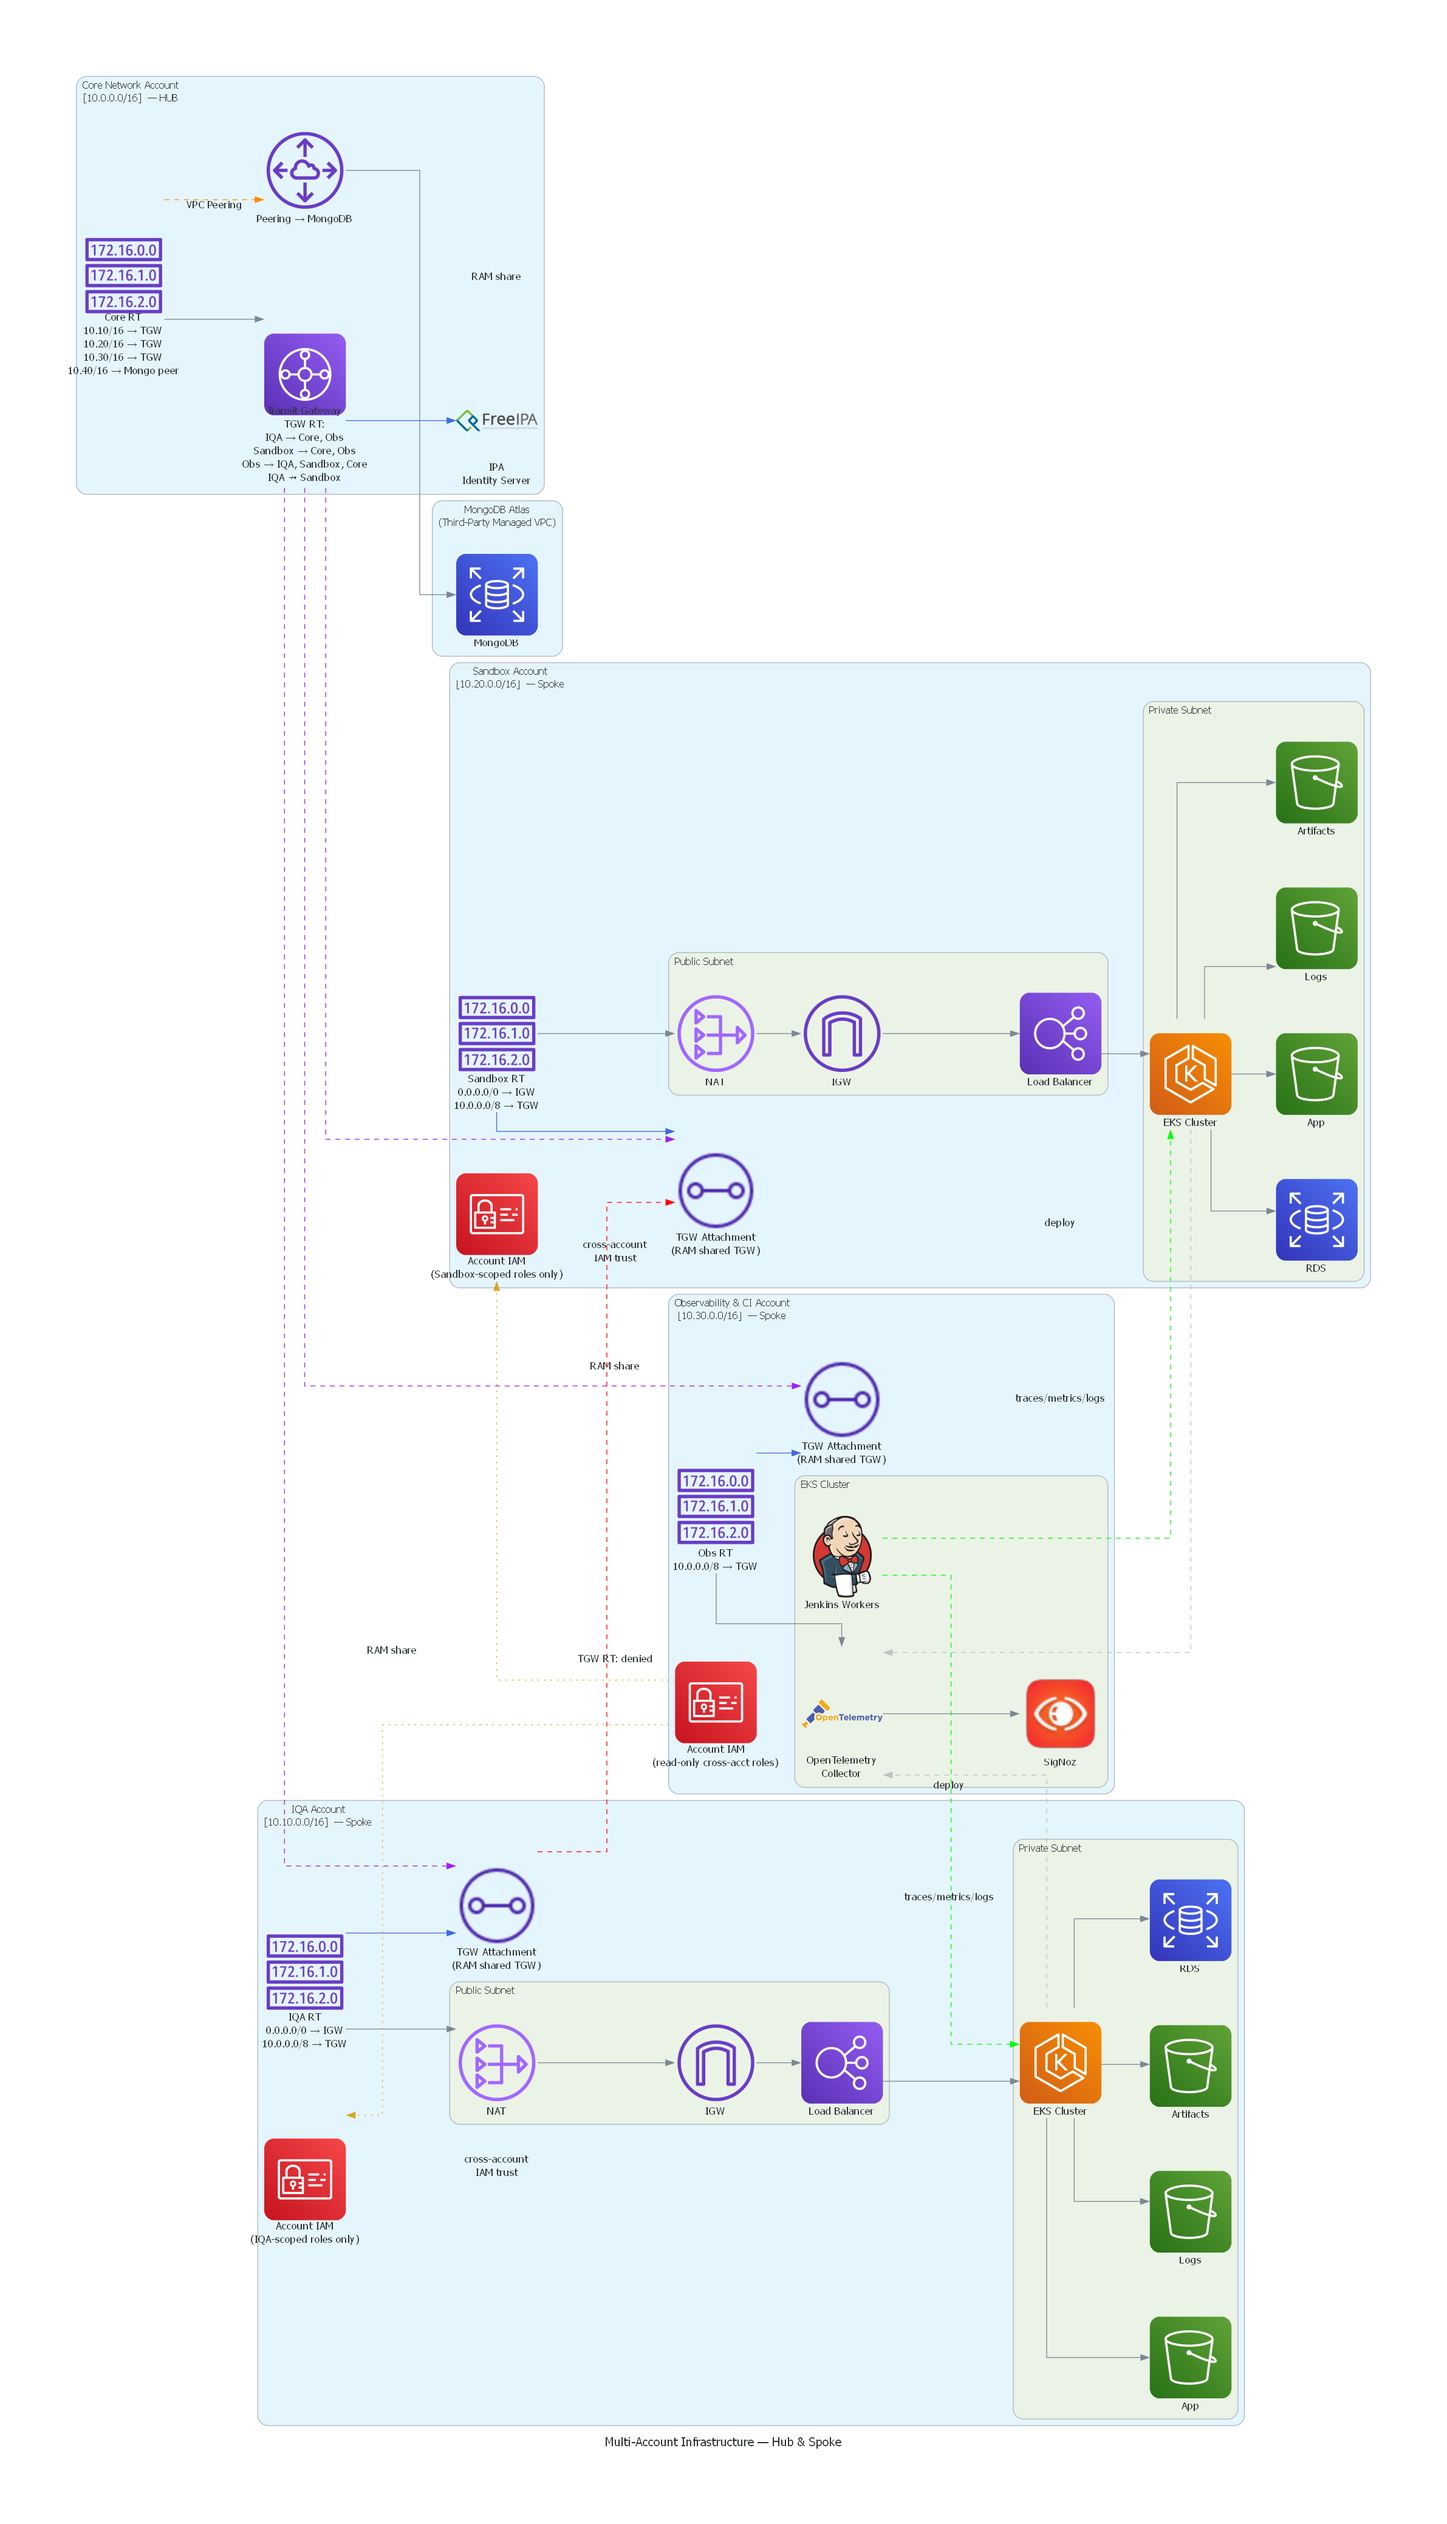
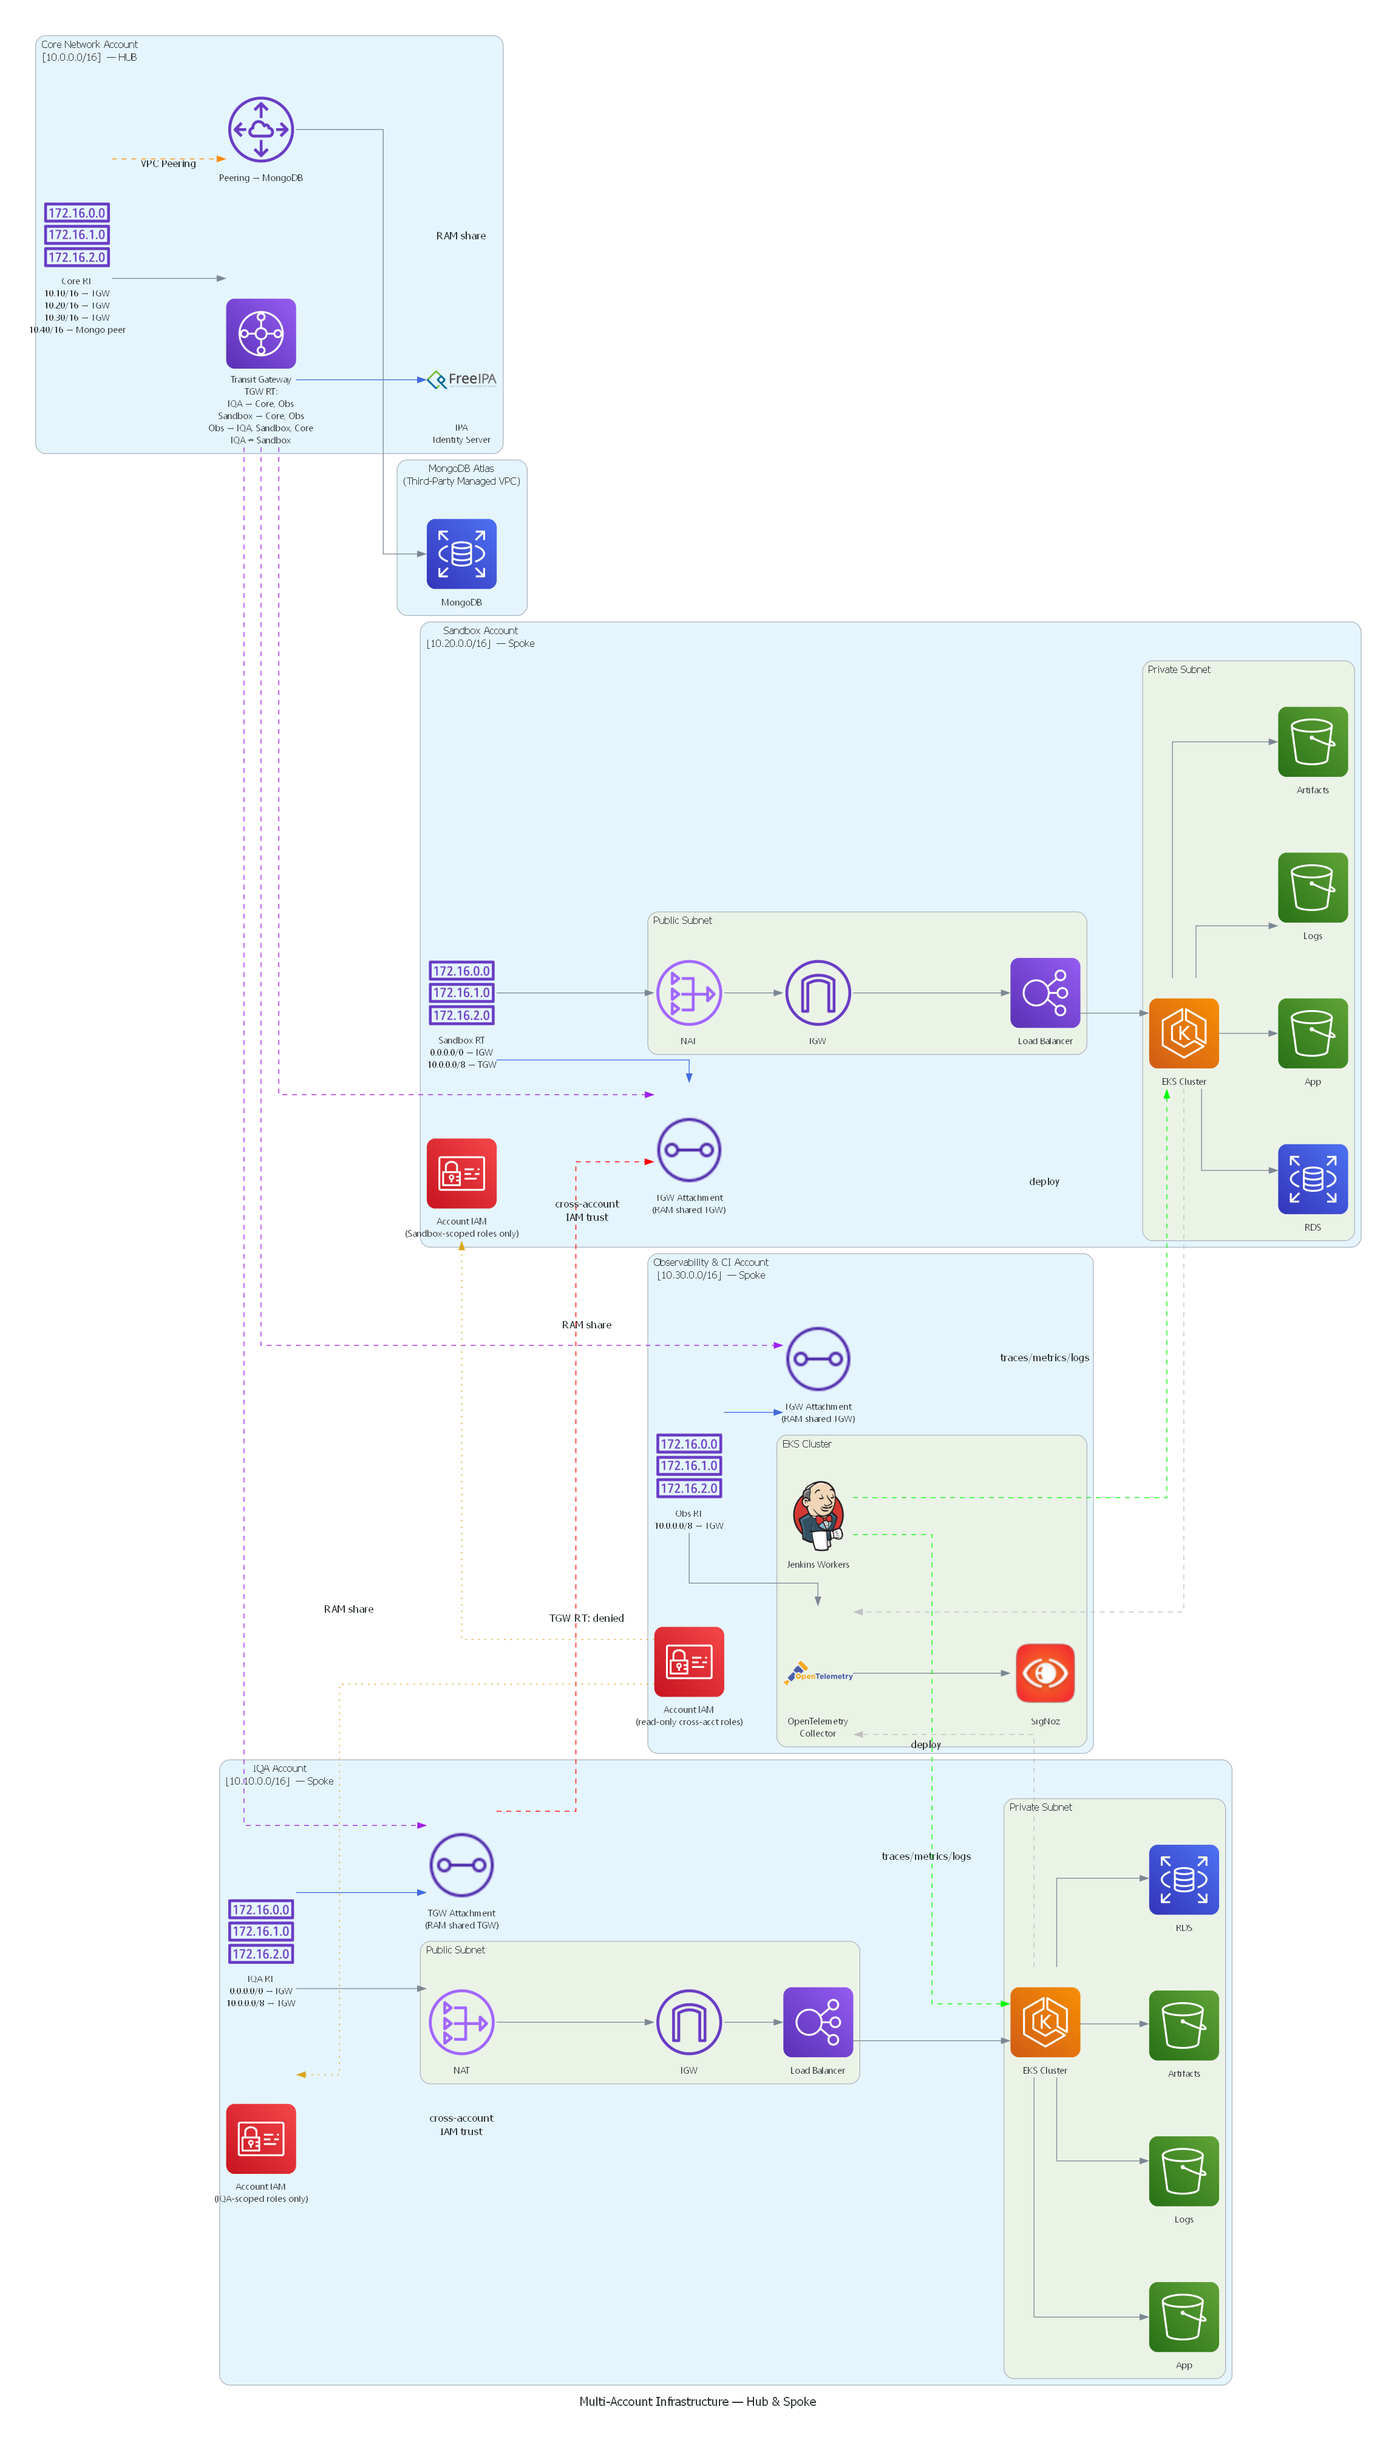
Remove IPA node from exec_org, fix null bytes, tighten node sizing across all diagrams
- Remove FreeIPA custom icon from exec_org Networking OU
- Strip null bytes from exec_org.py caused by UTF-16 encoding in another session
- Add fixedsize/width/height to all node_attrs to reduce whitespace above icons
- Switch fonts to Segoe UI on exec scripts
- Move title to top via labelloc=t on exec_org

diff --git a/exec_org.py b/exec_org.py
@@ -1,9 +1,6 @@
 from diagrams import Diagram, Cluster, Edge
-from diagrams.aws.management import OrganizationsAccount, ControlTower
+from diagrams.aws.management import OrganizationsAccount, OrganizationsOrganizationalUnit, ControlTower
 from diagrams.aws.network import TransitGateway
-from diagrams.aws.compute import EKS
-from diagrams.aws.devtools import Codebuild
-from diagrams.onprem.monitoring import Grafana
 
 # Edge styles
 governs  = {"style": "solid",  "color": "#2C5F8A", "penwidth": "2"}
@@ -12,19 +9,22 @@ scp_edge = {"style": "dashed", "color": "#C0392B", "penwidth": "1.5", "label": "
 
 def create_exec_org_diagram():
     graph_attrs = {
-        "fontsize": "22",
-        "fontname": "Helvetica",
-        "pad": "1.5",
+        "fontsize": "20",
+        "fontname": "Segoe UI",
+        "labelloc": "t",
+        "pad": "0.4",
         "splines": "ortho",
-        "ranksep": "1.6",
-        "nodesep": "1.2",
+        "ranksep": "0.8",
+        "nodesep": "0.5",
         "bgcolor": "white",
     }
     node_attrs = {
-        "fontsize": "18",
-        "fontname": "Helvetica",
+        "fontsize": "11",
+        "fontname": "Segoe UI",
+        "fixedsize": "true",
+        "width": "1.2",
+        "height": "1.2",
     }
-
     with Diagram(
         "AWS Account Governance",
         show=False,
@@ -34,23 +34,23 @@ def create_exec_org_diagram():
         node_attr=node_attrs,
     ):
         # ── Root governance ───────────────────────────────────────────────
-        mgmt = OrganizationsAccount("Management Account\nBilling · Root · Audit")
+        mgmt = OrganizationsOrganizationalUnit("Management Account\nBilling · Root · Audit")
         ct   = ControlTower("AWS Control Tower\nPolicy Enforcement")
         mgmt >> Edge(**governs) >> ct
 
         # ── Networking OU ─────────────────────────────────────────────────
-        with Cluster("Networking OU\nCentralised connectivity & routing"):
-            core = TransitGateway(
-                "Core Network\nTransit Gateway Hub\nShared with all accounts"
-            )
+        ca = {"margin": "12", "fontsize": "13", "fontname": "Segoe UI"}
+
+        with Cluster("Networking OU", graph_attr=ca):
+            core = TransitGateway("Transit Gateway\nCentral routing hub")
 
         # ── Application OU ────────────────────────────────────────────────
-        with Cluster("Application OU\nIsolated workload environments"):
+        with Cluster("Application OU\nIsolated workload environments", graph_attr=ca):
             iqa  = OrganizationsAccount("IQA Environment\nIntegration & QA workloads")
             sand = OrganizationsAccount("Sandbox Environment\nDevelopment & testing")
 
         # ── Platform OU ───────────────────────────────────────────────────
-        with Cluster("Platform OU\nShared engineering services"):
+        with Cluster("Platform OU\nShared engineering services", graph_attr=ca):
             obs  = OrganizationsAccount("Observability & CI\nMonitoring · Alerting · Deployments")
 
         # ── Control Tower governs all accounts ────────────────────────────
@@ -59,17 +59,6 @@ def create_exec_org_diagram():
         ct >> Edge(**scp_edge) >> sand
         ct >> Edge(**scp_edge) >> obs
 
-        # ── Core network shared to application accounts ───────────────────
-        core >> Edge(
-            style="dashed", color="#7D3C98", penwidth="1.5",
-            label="Shared network (RAM)"
-        ) >> iqa
-        core >> Edge(
-            style="dashed", color="#7D3C98", penwidth="1.5",
-        ) >> sand
-        core >> Edge(
-            style="dashed", color="#7D3C98", penwidth="1.5",
-        ) >> obs
 
 
 if __name__ == "__main__":

diff --git a/aws_org.py b/aws_org.py
@@ -16,11 +16,13 @@ trust    = {"style": "dotted", "color": "goldenrod",  "label": "cross-account\nI
 def create_aws_org_diagram():
     graph_attrs = {
         "fontsize": "16",
-        "pad": "1.2",
+        "pad": "0.5",
         "splines": "ortho",
-        "ranksep": "1.5",
-        "nodesep": "1.0",
+        "ranksep": "1.0",
+        "nodesep": "0.6",
     }
+
+    node_attrs = {"fontsize": "11", "fontname": "Segoe UI", "fixedsize": "true", "width": "1.2", "height": "1.2"}
 
     with Diagram(
         "AWS Organizations — Account & OU Structure",
@@ -28,6 +30,7 @@ def create_aws_org_diagram():
         filename="diagrams/aws_org",
         direction="LR",
         graph_attr=graph_attrs,
+        node_attr=node_attrs,
     ):
         # ── Root ─────────────────────────────────────────────────────────
         mgmt = OrganizationsAccount("Management Account\n(Billing & Org root)")

diff --git a/multi_account.py b/multi_account.py
@@ -26,7 +26,8 @@ trust_edge  = {"style": "dotted", "color": "goldenrod",  "label": "cross-account
 
 
 def create_multi_account_diagram():
-    graph_attrs = {"fontsize": "15", "pad": "1.2", "splines": "ortho"}
+    graph_attrs = {"fontsize": "15", "pad": "0.5", "splines": "ortho", "ranksep": "1.0", "nodesep": "0.6"}
+    node_attrs  = {"fontsize": "11", "fontname": "Segoe UI", "fixedsize": "true", "width": "1.2", "height": "1.2"}
 
     with Diagram(
         "Multi-Account Infrastructure — Hub & Spoke",
@@ -34,6 +35,7 @@ def create_multi_account_diagram():
         filename="diagrams/multi_account_overview",
         direction="LR",
         graph_attr=graph_attrs,
+        node_attr=node_attrs,
     ):
         # ── Core Network Account (Hub) ────────────────────────────────────
         with Cluster("Core Network Account\n[10.0.0.0/16]  — HUB"):

diff --git a/main.py b/main.py
@@ -24,7 +24,8 @@ peer_edge   = {"style": "dashed", "color": "darkorange", "label": "VPC Peering"}
 
 
 def create_infra_diagram():
-    graph_attrs = {"fontsize": "16", "pad": "1.0", "splines": "ortho"}
+    graph_attrs = {"fontsize": "16", "pad": "0.5", "splines": "ortho", "ranksep": "1.0", "nodesep": "0.6"}
+    node_attrs  = {"fontsize": "11", "fontname": "Segoe UI", "fixedsize": "true", "width": "1.2", "height": "1.2"}
 
     with Diagram(
         "Infrastructure Overview — Hub & Spoke (Transit Gateway)",
@@ -32,6 +33,7 @@ def create_infra_diagram():
         filename="diagrams/infra_overview",
         direction="LR",
         graph_attr=graph_attrs,
+        node_attr=node_attrs,
     ):
         # ── External: MongoDB (third-party managed VPC) ──────────────────
         with Cluster("MongoDB Atlas\n(Third-Party Managed VPC)"):

diff --git a/exec_multi_account.py b/exec_multi_account.py
@@ -26,15 +26,18 @@ def create_exec_multi_account_diagram():
     graph_attrs = {
         "fontsize": "22",
         "fontname": "Helvetica",
-        "pad": "1.8",
+        "pad": "0.8",
         "splines": "ortho",
-        "ranksep": "2.0",
-        "nodesep": "1.6",
+        "ranksep": "1.2",
+        "nodesep": "0.8",
         "bgcolor": "white",
     }
     node_attrs = {
-        "fontsize": "18",
-        "fontname": "Helvetica",
+        "fontsize": "11",
+        "fontname": "Segoe UI",
+        "fixedsize": "true",
+        "width": "1.2",
+        "height": "1.2",
     }
 
     with Diagram(

diff --git a/exec_network.py b/exec_network.py
@@ -24,15 +24,18 @@ def create_exec_network_diagram():
     graph_attrs = {
         "fontsize": "22",
         "fontname": "Helvetica",
-        "pad": "1.8",
+        "pad": "0.8",
         "splines": "ortho",
-        "ranksep": "2.0",
-        "nodesep": "1.4",
+        "ranksep": "1.2",
+        "nodesep": "0.8",
         "bgcolor": "white",
     }
     node_attrs = {
-        "fontsize": "18",
-        "fontname": "Helvetica",
+        "fontsize": "11",
+        "fontname": "Segoe UI",
+        "fixedsize": "true",
+        "width": "1.2",
+        "height": "1.2",
     }
 
     with Diagram(
